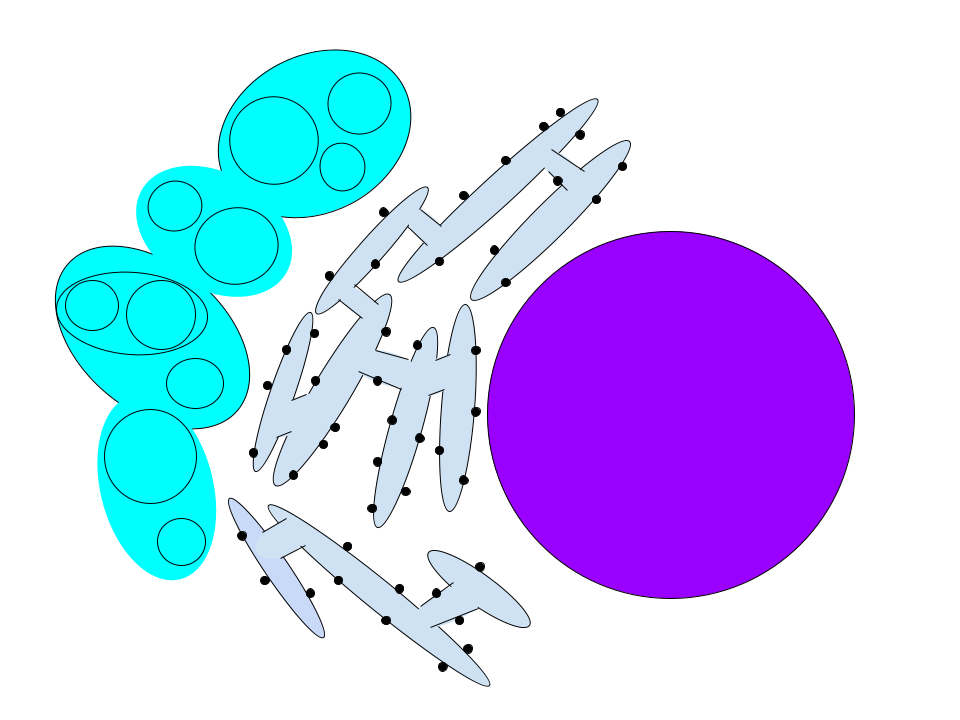
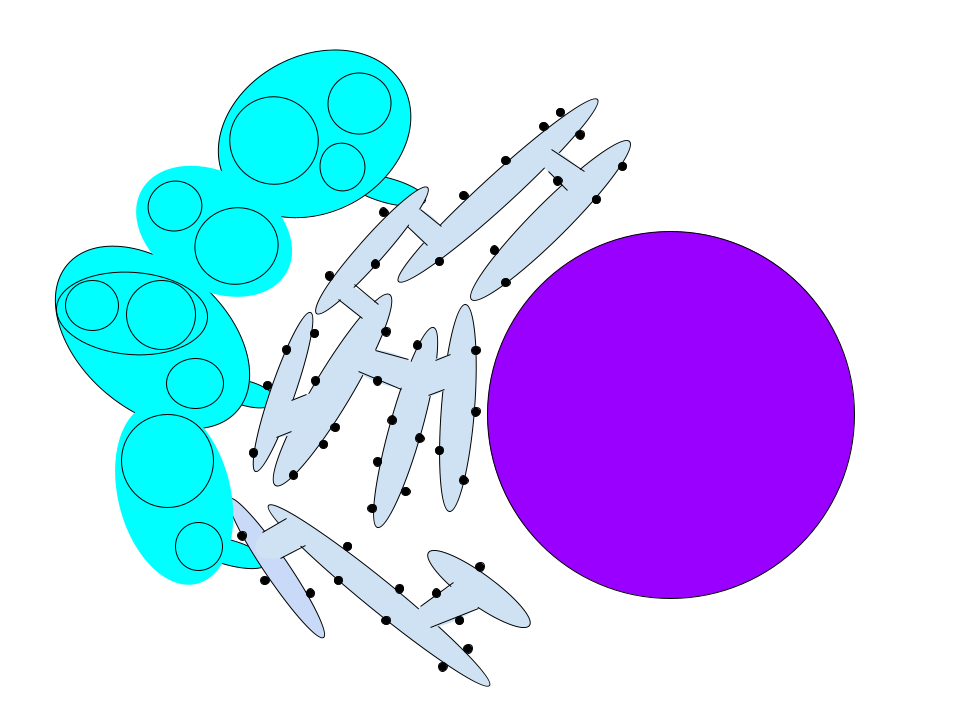
Smooth Endoplasmic Reticulum done, leaving me so dead inside, Just pasting & editing previous comitt msg

Changed region(s): [[0.0938, 0.55, 0.2812, 0.825], [0.375, 0.2444, 0.4375, 0.3056], [0.25, 0.5194, 0.2812, 0.5806]]

diff --git a/src/net/biff/organelles/RoughER.java b/src/net/biff/organelles/RoughER.java
@@ -56,32 +56,32 @@ public class RoughER extends Organelle implements Ribosomal{
         createRibosome(338,480);
         createRibosome(400,550);
         createRibosome(350,535);
-        Rectangle2D hitboxA = new Rectangle2D.Double(250,250,100,100);
-        Area hb = new Area(hitboxA);
-        hitboxA = new Rectangle2D.Double(300,200,100,110);
-        hb.add(new Area(hitboxA));
+        Rectangle2D hitboxSection = new Rectangle2D.Double(250,250,100,100);
+        Area hb = new Area(hitboxSection);
+        hitboxSection = new Rectangle2D.Double(300,200,100,110);
+        hb.add(new Area(hitboxSection));
         Ellipse2D hitboxB = new Ellipse2D.Double(400,225,50,50);
         hb.add(new Area(hitboxB));
-        hitboxA = new Rectangle2D.Double(350,290,80,35);
-        hb.add(new Area(hitboxA));
-        hitboxA = new Rectangle2D.Double(200,300,50,100);
-        hb.add(new Area(hitboxA));
-        hitboxA = new Rectangle2D.Double(180,350,40,75);
-        hb.add(new Area(hitboxA));
-        hitboxA = new Rectangle2D.Double(225,275,25,25);
-        hb.add(new Area(hitboxA));
-        hitboxA = new Rectangle2D.Double(250,350,75,100);
-        hb.add(new Area(hitboxA));
-        hitboxA = new Rectangle2D.Double(200,400,100,100);
-        hb.add(new Area(hitboxA));
-        hitboxA = new Rectangle2D.Double(300,450,50,100);
-        hb.add(new Area(hitboxA));
-        hitboxA = new Rectangle2D.Double(350,468,50,82);
-        hb.add(new Area(hitboxA));
-        hitboxA = new Rectangle2D.Double(400,490,40,25);
-        hb.add(new Area(hitboxA));
-        hitboxA = new Rectangle2D.Double(380,540,40,25);
-        hb.add(new Area(hitboxA));
+        hitboxSection = new Rectangle2D.Double(350,290,80,35);
+        hb.add(new Area(hitboxSection));
+        hitboxSection = new Rectangle2D.Double(200,300,50,100);
+        hb.add(new Area(hitboxSection));
+        hitboxSection = new Rectangle2D.Double(180,350,40,75);
+        hb.add(new Area(hitboxSection));
+        hitboxSection = new Rectangle2D.Double(225,275,25,25);
+        hb.add(new Area(hitboxSection));
+        hitboxSection = new Rectangle2D.Double(250,350,75,100);
+        hb.add(new Area(hitboxSection));
+        hitboxSection = new Rectangle2D.Double(200,400,100,100);
+        hb.add(new Area(hitboxSection));
+        hitboxSection = new Rectangle2D.Double(300,450,50,100);
+        hb.add(new Area(hitboxSection));
+        hitboxSection = new Rectangle2D.Double(350,468,50,82);
+        hb.add(new Area(hitboxSection));
+        hitboxSection = new Rectangle2D.Double(400,490,40,25);
+        hb.add(new Area(hitboxSection));
+        hitboxSection = new Rectangle2D.Double(380,540,40,25);
+        hb.add(new Area(hitboxSection));
         hitbox = hb;
     }
     private Shape rotate(Double degrees, Ellipse2D shape){
@@ -100,6 +100,5 @@ public class RoughER extends Organelle implements Ribosomal{
         sacs.forEach(g2d::fill);
         g2d.setColor(Color.BLACK);
         ribosomes.forEach(g2d::fill);
-        g2d.setColor(Color.GREEN);
     }
 }

diff --git a/src/net/biff/organelles/SmoothER.java b/src/net/biff/organelles/SmoothER.java
@@ -1,0 +1,56 @@
+package net.biff.organelles;
+
+import java.awt.*;
+import java.awt.geom.AffineTransform;
+import java.awt.geom.Area;
+import java.awt.geom.Rectangle2D;
+import java.util.ArrayList;
+import java.util.List;
+import java.awt.geom.Ellipse2D;
+
+public class SmoothER extends Organelle{
+    private List<Shape> base = new ArrayList<>();
+    private List<Shape> tubes = new ArrayList<>();
+    public SmoothER(){
+        Shape based = oval(250,200,150,75,-45d);
+        Area hb = new Area(based);
+        based = oval(170,300,175,75,-70d);
+        hb.add(new Area(based));
+        based = oval(160,435,60,175,-10d);
+        hb.add(new Area(based));
+        based = oval(235,555,175,75,40d);
+        hb.add(new Area(based));
+        based = oval(225,250,50,75,0);
+        hb.add(new Area(based));
+        hitbox = hb;
+        tubes.add(oval(275,175,50,50,0d));
+        tubes.add(oval(235,215,25,25,0d));
+        tubes.add(oval(185,270,100,60,-70d));
+        tubes.add(oval(200,250,20,20,0d));
+        tubes.add(oval(175,300,20,20,0d));
+        tubes.add(oval(150,350,40,40,0d));
+        tubes.add(oval(165,400,30,30,0d));
+        tubes.add(oval(150,450,20,20,0d));
+        tubes.add(oval(180,525,25,25,0d));
+        tubes.add(oval(225,538,30,30,0d));
+        tubes.add(oval(250,576,40,40,0d));
+
+
+    }
+    @Override
+    public void draw(Graphics2D g2d) {
+        g2d.setColor(new Color(147,168,250));
+        g2d.fill(hitbox);
+        tubes.forEach(g2d::fill);
+        g2d.setColor(Color.BLACK);
+        g2d.setStroke(smallerStroke);
+        tubes.forEach(g2d::draw);
+
+    }
+    private Shape oval(int x, int y, int width, int height, double angle){
+        Ellipse2D circle = new Ellipse2D.Double(x-width/2,y-height/2,width,height);
+        AffineTransform rotator = AffineTransform.getRotateInstance(Math.toRadians(angle),
+               circle.getCenterX(), circle.getCenterY());
+        return rotator.createTransformedShape(circle);
+    }
+}

diff --git a/src/net/biff/Main.java b/src/net/biff/Main.java
@@ -10,15 +10,17 @@ public class Main{
     public static void main(String[] args) {
         List<Organelle> organelles = new ArrayList<>();
         organelles.add(new Membrane());
-        organelles.add(new Mitochondrion(-45,450,500));
+        organelles.add(new Mitochondrion(-45,525,575));
         organelles.add(new Nucleus());
         organelles.add(new RoughER());
+        organelles.add(new SmoothER());
         JFrame window = new JFrame("Cell Game");
         window.setSize(800,800);
         window.setDefaultCloseOperation(JFrame.EXIT_ON_CLOSE);
         window.setResizable(false);
         Screen screen = new Screen(organelles);
         window.add(screen);
+        window.setLocationRelativeTo(null);
         window.setVisible(true);
     }
 }

diff --git a/src/net/biff/Screen.java b/src/net/biff/Screen.java
@@ -10,7 +10,7 @@ import java.lang.Runnable;
 public class Screen extends JPanel implements Runnable{
     private final List<Organelle> organelles;
     public Thread gameLoop;
-    private final boolean guides = false;
+    private final boolean guides = !false;
 
     public Screen(List<Organelle> orgs){
         this.organelles = orgs;
@@ -36,6 +36,10 @@ public class Screen extends JPanel implements Runnable{
                 }
             });
             if (guides) {guide(g2d);}
+            /*g2d.setColor(Color.ORANGE);
+            g2d.draw(organelles.get(4).hitbox);
+            g2d.setColor(Color.GREEN);
+            g2d.draw(organelles.get(3).hitbox);*/
             g2d.dispose();
             g.dispose();
     }

diff --git a/src/net/biff/organelles/Organelle.java b/src/net/biff/organelles/Organelle.java
@@ -5,8 +5,9 @@ import java.awt.*;
 public abstract class Organelle {
     public Shape hitbox;
     public boolean visible = true;
-    public BasicStroke smallStroke = new BasicStroke(7f);
-    public BasicStroke stroke = new BasicStroke(10.0f);
+    public static BasicStroke smallStroke = new BasicStroke(7f);
+    public static BasicStroke stroke = new BasicStroke(10.0f);
+    public static BasicStroke smallerStroke = new BasicStroke(5f);
 
     public abstract void draw(Graphics2D g2d);
 }

diff --git a/src/net/biff/organelles/Membrane.java b/src/net/biff/organelles/Membrane.java
@@ -1,12 +1,13 @@
 package net.biff.organelles;
 
 import java.awt.*;
-import java.awt.geom.Area;
 import java.awt.geom.Ellipse2D;
 
 public class Membrane extends Organelle{
     public Membrane(){
-        hitbox = new Ellipse2D.Double(150,150,500,500);
+        int radius = 600;
+        int coordinate = 400 - radius/2;
+        hitbox = new Ellipse2D.Double(coordinate,coordinate,radius,radius);
         visible = true;
     }
     @Override
